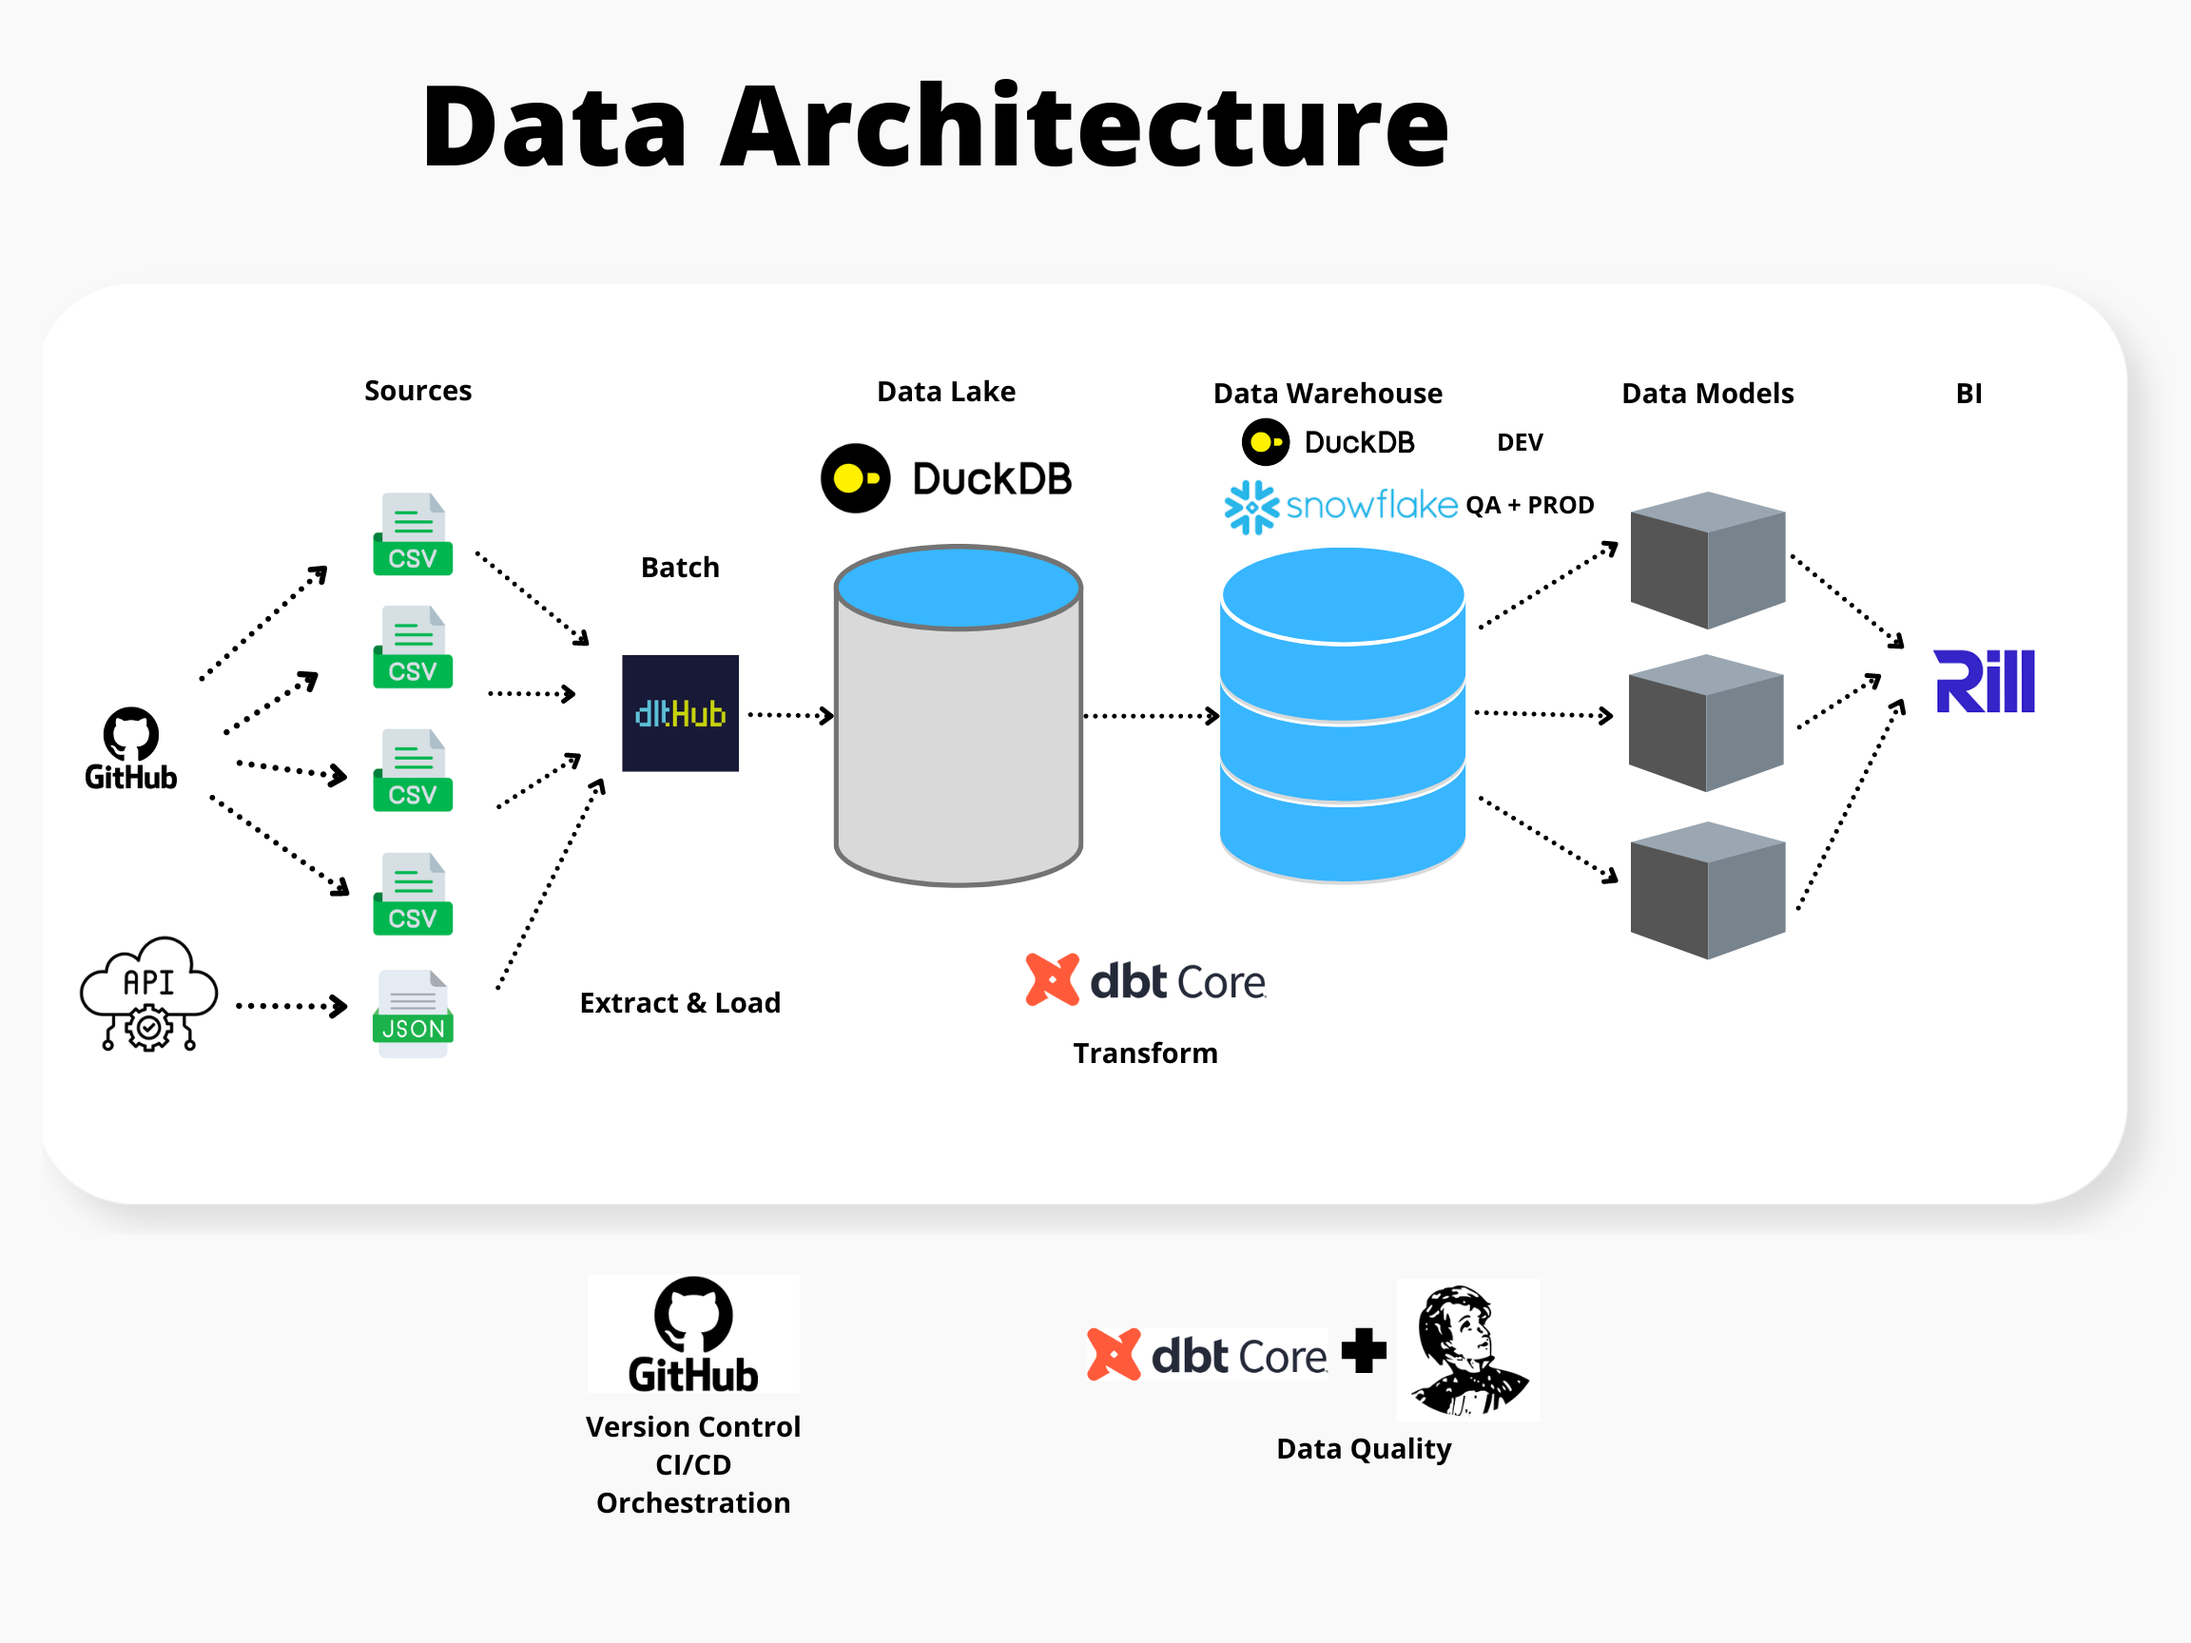
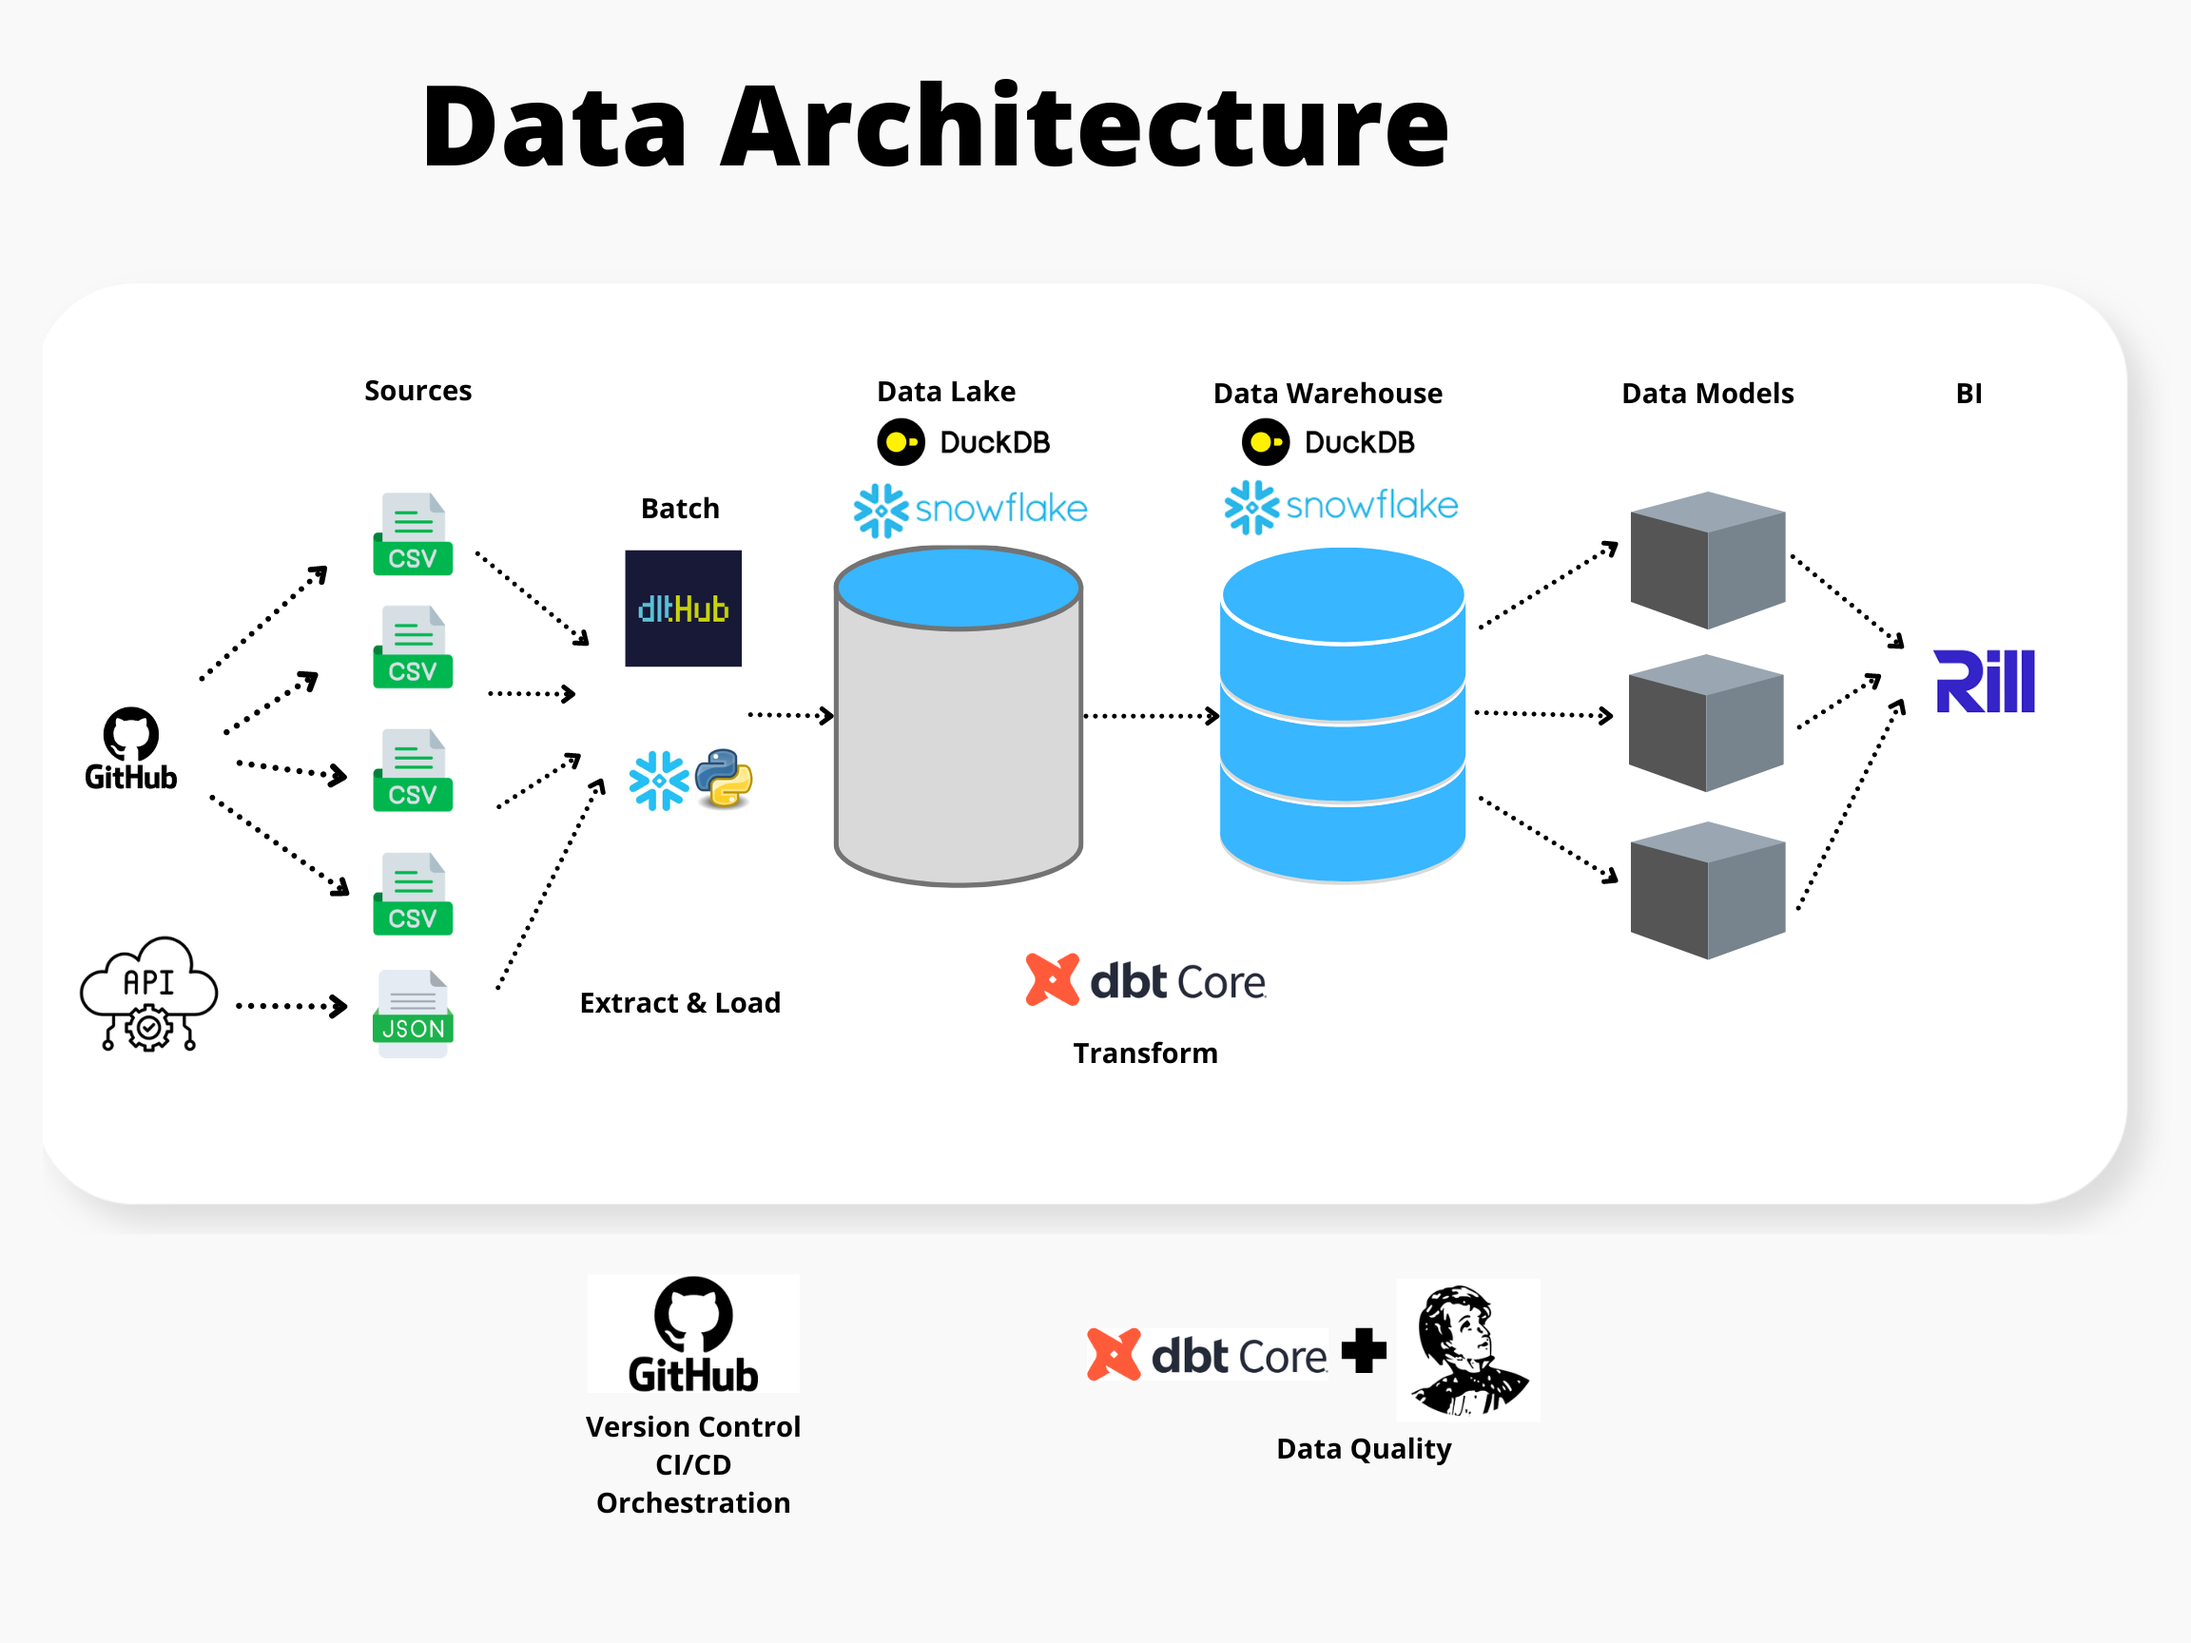
added architecture and setup details into readme

Changed region(s): [[0.2812, 0.2812, 0.3438, 0.5], [0.375, 0.25, 0.5, 0.3438], [0.6875, 0.25, 0.7188, 0.3125]]

diff --git a/README.md b/README.md
@@ -6,6 +6,31 @@ This is a MDS (Modern Data Stack) project which uses the [ATP Tennis Rankings, R
 
 ![Architecture](/_project_docs/Modern_Data_Stack_Project_Architecture.png)
 
+A brief explanation of all the building blocks used on this architecture:
+
+### Sources
+
+- .csv files from a GitHub repository with [ATP Tennis Rankings, Results, and Stats](https://github.com/JeffSackmann/tennis_atp) dataset.
+- .json file from a [REST API](https://restcountries.com/v3.1/all) with a countries dataset.
+
+### Extract & Load
+
+- **dltHub**: Python library for extract & load. You can dlt to your Python scripts to load data from various and oftn messy data sources into well-structured, live datasets. This approach is used to extract and load data into `Duckdb`.
+- **Snowflake Connector for Python**: The Snowflake Connector for Python provides an interface for developing Python applications that can connect to Snowflake and perform all standard operations. This approach is used to extract and load data into `Snowflake`.
+
+**Note**: Both scenarios will be triggered by a `GitHub Actions` workflow to perform batch jobs.
+
+### Transform
+
+- **dbt Core**: dbt (Data build tool) takes care of the transformation layer to modularize and centralize your analytics code, while also providing best practices from software engineering workflows with version control and data quality features combined with documentation in one single tool.
+dbt compiles and runs your analytics code against your data plaform (in this scenario `Duckdb` and `Snowflake`), enabling you and your team to collaborate on a single source of truth for metrics, insights and business definitions.
+
+### BI
+
+- **Rill**: Rill is a data analytics platform designed to create fast and interactive operational dashboards. Unlike many traditional business intelligence (BI) tools, Rill comes with an embedded in-memory database that allows for near-instantaneous querying and data exploration. This feature enables users to quickly pivot, slice, and drill down into their data without the typical delays associated with other BI solutions.
+
+Rill is particularly useful for operational and exploratory analytics, offering tools to transform datasets using SQL, and it integrates smoothly with other data sources and analytics platforms like Tableau and Looker. Additionally, Rill supports real-time analytics by working with both batch and streaming data from various sources such as Apache Kafka and Google BigQuery
+
 ## Pre-requisites
 
 For this project make sure you have following installed:
@@ -34,6 +59,27 @@ Execute the following command to install the required packages using [Homebrew](
 ``` shell
 brew install python@3.11 virtualenv just rilldata/tap/rill
 ```
+
+Use the `DuckDB CLI` to query the `DuckDB` database. If you don't already have DuckDB v0.8.1 or higher installed then proceed to do the following:
+
+Download and unzip the CLI
+```bash
+curl -OL https://github.com/duckdb/duckdb/releases/download/v0.9.1/duckdb_cli-osx-universal.zip
+unzip duckdb_cli-osx-universal.zip
+```
+
+Open the database using the downloaded DuckDB CLI like this
+```bash
+./duckdb --readonly atp_tour.duckdb
+```
+
+And if you already have DuckDB install then open the database like this
+```bash
+duckdb --readonly atp_tour.duckdb
+```
+---
+
+**Note:** An alternative way to query the `DuckDB` database is to install [DBeaver](https://dbeaver.io/) client (also works with Snowflake if preferred).
 
 #### Create a virtual environment
 Create a virtual environment for your python dependencies and activate it. Your python dependencies will be installed here.
@@ -78,6 +124,9 @@ echo $DBT_PASSWORD
 ```
 
 ## Extract & Load
+
+### DltHub
+
 Running this python script will read the ATP tour data into a duckdb database called `atp_tour.duckdb`
 ```python 
 python3 el_sources_data.py
@@ -158,23 +207,7 @@ chmod ug+x .git/hooks/*
 
 Now, the `just ci` command will run each time you try to add a commit (just ci will run before the code commit automatically).
 
-Use the `DuckDB CLI` to query the `DuckDB` database. If you don't already have DuckDB v0.8.1 or higher installed then proceed to do the following:
 
-Download and unzip the CLI
-```bash
-curl -OL https://github.com/duckdb/duckdb/releases/download/v0.9.1/duckdb_cli-osx-universal.zip
-unzip duckdb_cli-osx-universal.zip
-```
-
-Open the database using the downloaded DuckDB CLI like this
-```bash
-./duckdb --readonly atp_tour.duckdb
-```
-
-And if you already have DuckDB install then open the database like this
-```bash
-duckdb --readonly atp_tour.duckdb
-```
 
 To sample the players data try the following
 ```sql
